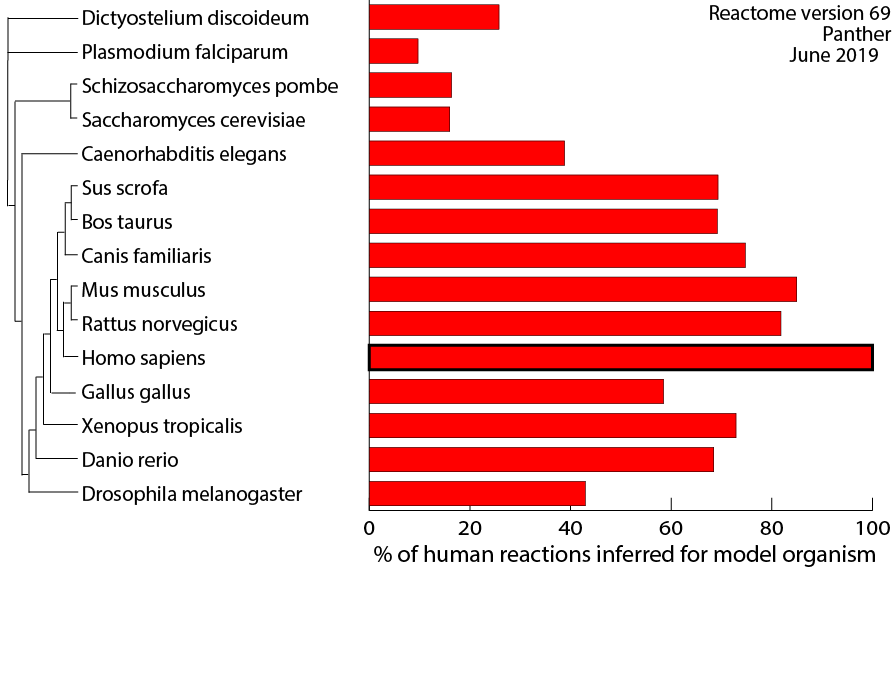
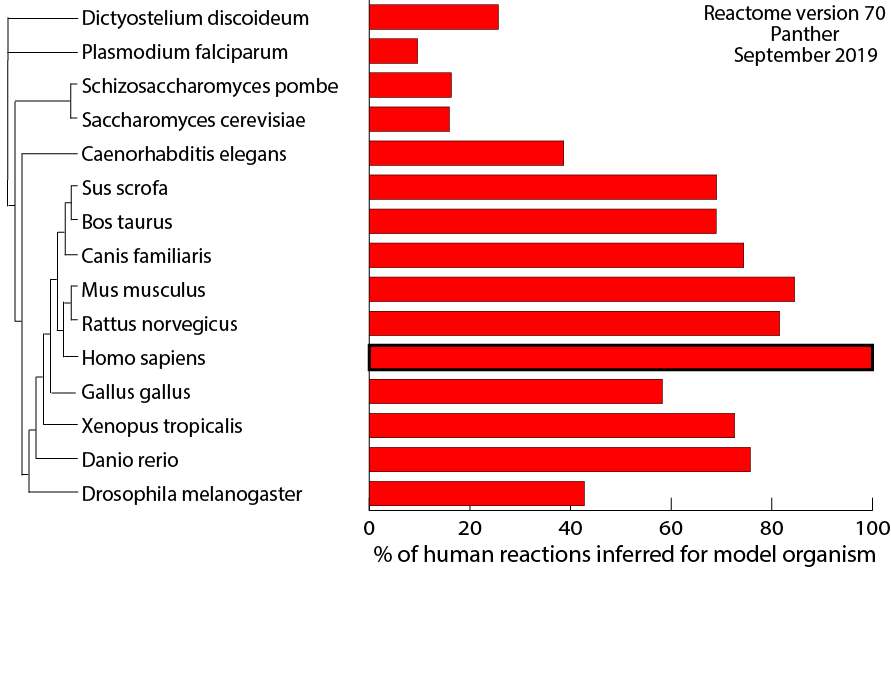
v70 statistics

diff --git a/scripts/release/website_files_update/stats.html b/scripts/release/website_files_update/stats.html
@@ -11,108 +11,108 @@
         <tbody>
     <tr>
         <td data-label="SPECIES">D. discoideum</td>
-        <td data-label="">2716</td>
-        <td data-label="">2840</td>
-        <td data-label="">2344</td>
-        <td data-label="">980</td>
+        <td data-label="">2729</td>
+        <td data-label="">2889</td>
+        <td data-label="">2357</td>
+        <td data-label="">981</td>
     </tr>
     <tr>
         <td data-label="SPECIES">P. falciparum</td>
         <td data-label="">1162</td>
         <td data-label="">1160</td>
-        <td data-label="">881</td>
-        <td data-label="">614</td>
+        <td data-label="">882</td>
+        <td data-label="">612</td>
     </tr>
     <tr>
         <td data-label="SPECIES">S. pombe</td>
         <td data-label="">1823</td>
-        <td data-label="">2032</td>
-        <td data-label="">1491</td>
+        <td data-label="">2055</td>
+        <td data-label="">1498</td>
         <td data-label="">788</td>
     </tr>
     <tr>
         <td data-label="SPECIES">S. cerevisiae</td>
         <td data-label="">1927</td>
-        <td data-label="">1964</td>
-        <td data-label="">1529</td>
+        <td data-label="">1993</td>
+        <td data-label="">1537</td>
         <td data-label="">783</td>
     </tr>
     <tr>
         <td data-label="SPECIES">C. elegans</td>
-        <td data-label="">4354</td>
-        <td data-label="">4423</td>
-        <td data-label="">3531</td>
-        <td data-label="">1271</td>
+        <td data-label="">4357</td>
+        <td data-label="">4476</td>
+        <td data-label="">3555</td>
+        <td data-label="">1273</td>
     </tr>
     <tr>
         <td data-label="SPECIES">S. scrofa</td>
-        <td data-label="">8624</td>
-        <td data-label="">7361</td>
-        <td data-label="">6309</td>
-        <td data-label="">1565</td>
+        <td data-label="">8653</td>
+        <td data-label="">7454</td>
+        <td data-label="">6350</td>
+        <td data-label="">1570</td>
     </tr>
     <tr>
         <td data-label="SPECIES">B. taurus</td>
-        <td data-label="">8235</td>
-        <td data-label="">7615</td>
-        <td data-label="">6364</td>
-        <td data-label="">1565</td>
+        <td data-label="">8267</td>
+        <td data-label="">7705</td>
+        <td data-label="">6406</td>
+        <td data-label="">1570</td>
     </tr>
     <tr>
         <td data-label="SPECIES">C. familiaris</td>
-        <td data-label="">8354</td>
-        <td data-label="">7917</td>
-        <td data-label="">6806</td>
-        <td data-label="">1596</td>
+        <td data-label="">8382</td>
+        <td data-label="">8008</td>
+        <td data-label="">6848</td>
+        <td data-label="">1601</td>
     </tr>
     <tr>
         <td data-label="SPECIES">M. musculus</td>
-        <td data-label="">9636</td>
-        <td data-label="">9970</td>
-        <td data-label="">8793</td>
-        <td data-label="">1649</td>
+        <td data-label="">9665</td>
+        <td data-label="">10068</td>
+        <td data-label="">8837</td>
+        <td data-label="">1654</td>
     </tr>
     <tr>
         <td data-label="SPECIES">R. norvegicus</td>
-        <td data-label="">8828</td>
-        <td data-label="">9036</td>
-        <td data-label="">7789</td>
-        <td data-label="">1633</td>
+        <td data-label="">8879</td>
+        <td data-label="">9131</td>
+        <td data-label="">7842</td>
+        <td data-label="">1639</td>
     </tr>
     <tr>
         <td data-label="SPECIES">*H. sapiens</td>
-        <td data-label="">10833</td>
-        <td data-label="">12206</td>
-        <td data-label="">12505</td>
-        <td data-label="">2272</td>
+        <td data-label="">10860</td>
+        <td data-label="">12335</td>
+        <td data-label="">12608</td>
+        <td data-label="">2287</td>
     </tr>
     <tr>
         <td data-label="SPECIES">G. gallus</td>
-        <td data-label="">7177</td>
-        <td data-label="">6633</td>
-        <td data-label="">5673</td>
-        <td data-label="">1565</td>
+        <td data-label="">7199</td>
+        <td data-label="">6712</td>
+        <td data-label="">5706</td>
+        <td data-label="">1567</td>
     </tr>
     <tr>
         <td data-label="SPECIES">X. tropicalis</td>
-        <td data-label="">7456</td>
-        <td data-label="">7739</td>
-        <td data-label="">6629</td>
-        <td data-label="">1598</td>
+        <td data-label="">7477</td>
+        <td data-label="">7830</td>
+        <td data-label="">6673</td>
+        <td data-label="">1603</td>
     </tr>
     <tr>
         <td data-label="SPECIES">D. rerio</td>
-        <td data-label="">6830</td>
-        <td data-label="">7963</td>
-        <td data-label="">6227</td>
-        <td data-label="">1580</td>
+        <td data-label="">8150</td>
+        <td data-label="">8201</td>
+        <td data-label="">6958</td>
+        <td data-label="">1611</td>
     </tr>
     <tr>
         <td data-label="SPECIES">D. melanogaster</td>
-        <td data-label="">4491</td>
-        <td data-label="">5059</td>
-        <td data-label="">4168</td>
-        <td data-label="">1410</td>
+        <td data-label="">4495</td>
+        <td data-label="">5124</td>
+        <td data-label="">4189</td>
+        <td data-label="">1414</td>
     </tr>
     <tr>
         <td data-label="SPECIES">M. tuberculosis</td>
@@ -125,4 +125,4 @@
     </table>
 </div>
 <p></p>
-<p>*Reactome annotates to protein isoforms when this information is available. The total number of curated human proteins including isoforms is 11009</p>
+<p>*Reactome annotates to protein isoforms when this information is available. The total number of curated human proteins including isoforms is 11040</p>
